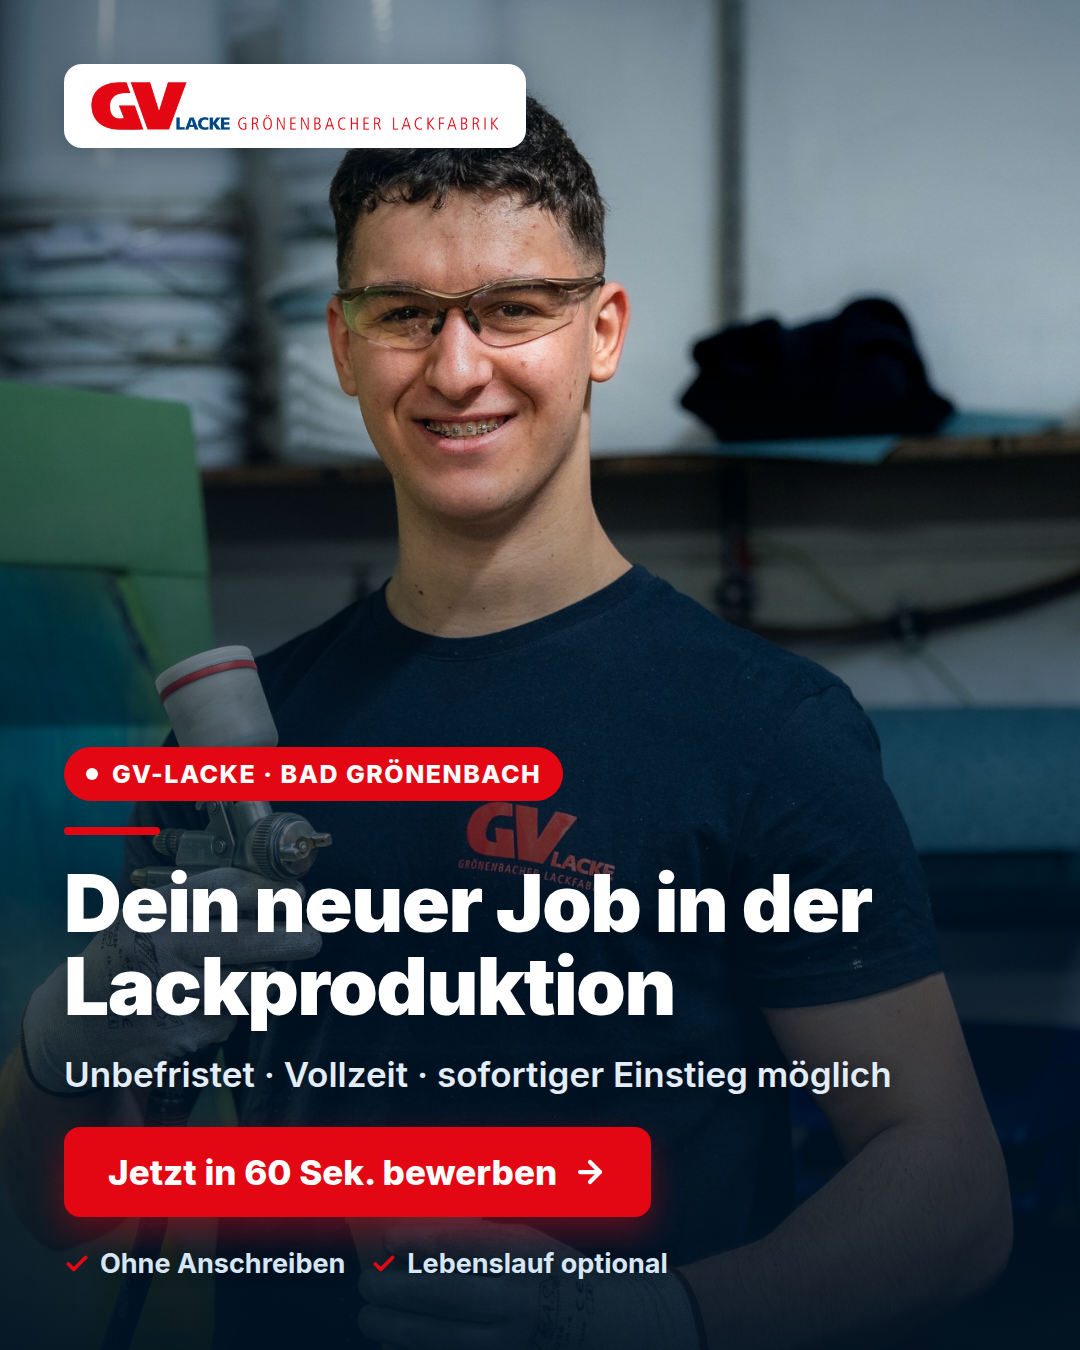
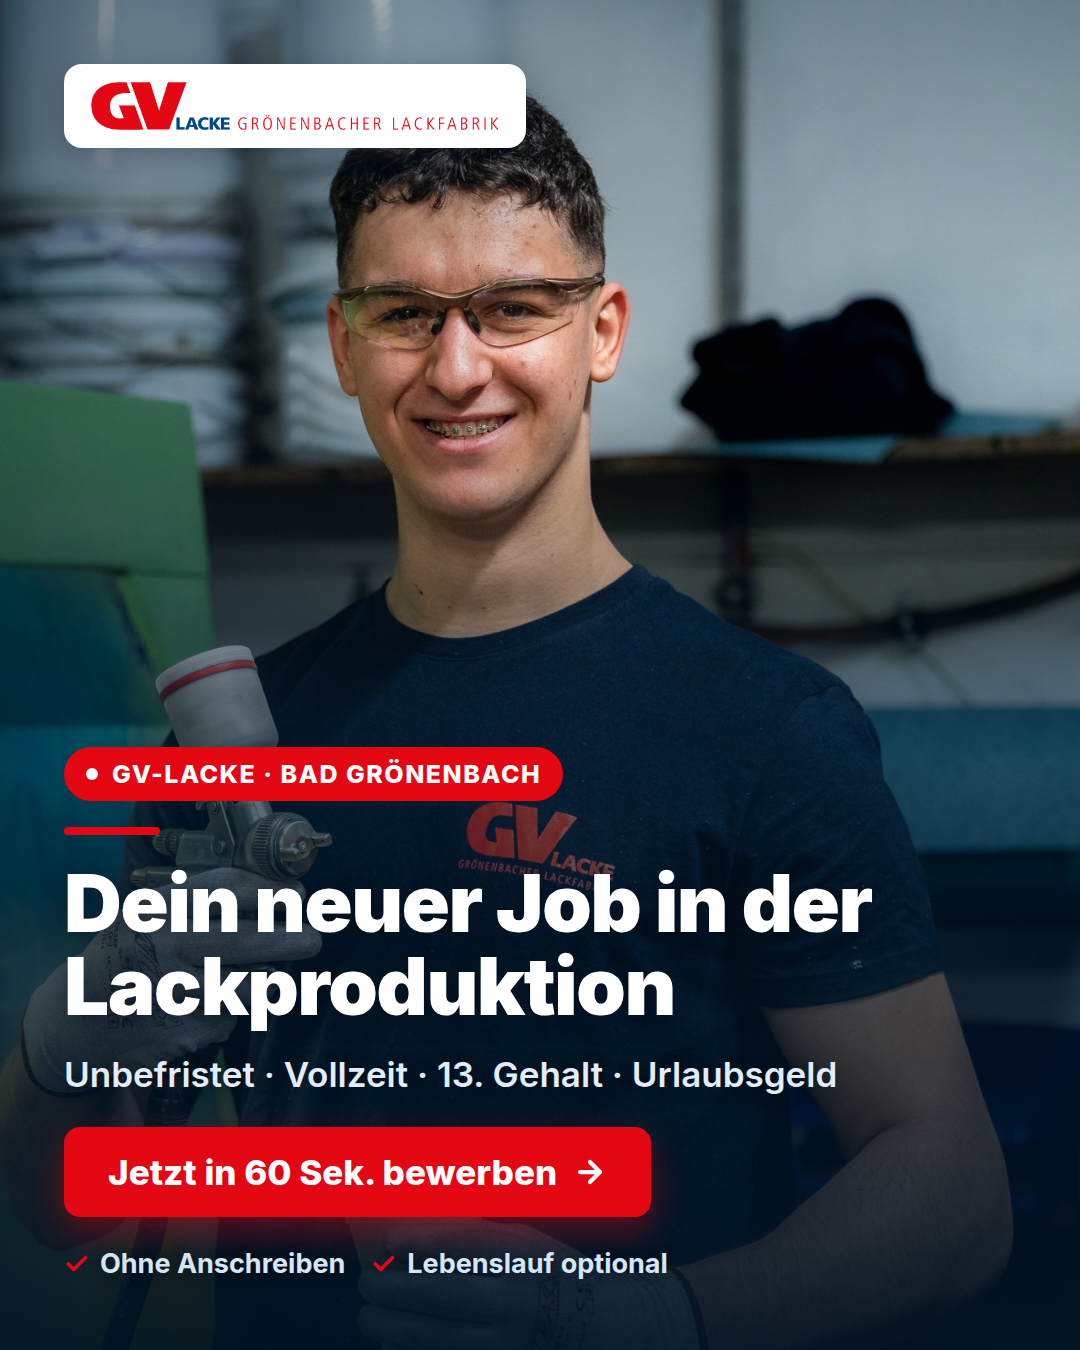
Benefits aufnehmen: echte Zusatzleistungen auf Seite & in Creatives
- Benefits-Sektion mit den von GV-Lacke gelieferten Leistungen (13. Gehalt,
  1.200 € Urlaubsgeld, 50-€-Gutschein/Monat, Fahrtkostenzuschuss,
  Jahresprämie, Jubiläumsbonus, betriebl. Pflegeversicherung, Team/Einarbeitung)
- Neues Creative-Konzept 04 "Benefits" (4:5 + 9:16) mit Vorteils-Checkliste
- Top-Benefits in Sub-/Reassure-Zeilen der übrigen Creatives ergänzt

Claude-Session: https://claude.ai/code/session_01Q4EAuYrsqog5BJEPYDqsgw

Changed region(s): [[0.3972, 0.7778, 0.825, 0.8089]]

diff --git a/index.html b/index.html
@@ -453,15 +453,18 @@ footer{padding:52px 0 36px;background:var(--blue-900);color:#cfe0f2}
 <section id="benefits">
   <div class="shell">
     <span class="kicker">Warum GV-Lacke</span>
-    <h2 class="sec-title">Ein eingespieltes Team, das sein Handwerk versteht.</h2>
-    <p class="sec-lead">Als Grönenbacher Lackfabrik produzieren wir seit Jahren hochwertige Lacke &amp; Beschichtungen im Allgäu. Bei uns zählen saubere Arbeit, ein fairer Umgang und Kolleginnen und Kollegen, die zusammenhalten.</p>
+    <h2 class="sec-title">Ein sicherer Job – mit Extras, die sich lohnen.</h2>
+    <p class="sec-lead">Als Grönenbacher Lackfabrik produzieren wir seit Jahren hochwertige Lacke &amp; Beschichtungen im Allgäu – mit einem Team, das zusammenhält. Neben fairer Bezahlung erwarten dich echte Zusatzleistungen:</p>
     <div class="benefit-grid">
-      <div class="benefit reveal"><div class="benefit__ic"><svg viewBox="0 0 24 24" fill="none" stroke-width="1.8" stroke-linecap="round" stroke-linejoin="round"><path d="M12 22s8-4 8-10V5l-8-3-8 3v7c0 6 8 10 8 10"/><path d="m9 12 2 2 4-4"/></svg></div><b>Sicherer Arbeitsplatz</b><p>Unbefristete Festanstellung in Vollzeit – bei uns weißt du, woran du bist.</p></div>
-      <div class="benefit reveal"><div class="benefit__ic"><svg viewBox="0 0 24 24" fill="none" stroke-width="1.8" stroke-linecap="round" stroke-linejoin="round"><rect x="2" y="5" width="20" height="14" rx="2"/><circle cx="12" cy="12" r="3"/><path d="M6 12h.01M18 12h.01"/></svg></div><b>Faire, pünktliche Bezahlung</b><p>Leistungsgerechter Lohn, der jeden Monat zuverlässig auf deinem Konto ist.</p></div>
-      <div class="benefit reveal"><div class="benefit__ic"><svg viewBox="0 0 24 24" fill="none" stroke-width="1.8" stroke-linecap="round" stroke-linejoin="round"><path d="M16 21v-2a4 4 0 0 0-4-4H6a4 4 0 0 0-4 4v2"/><circle cx="9" cy="7" r="4"/><path d="M22 21v-2a4 4 0 0 0-3-3.87"/><path d="M16 3.13a4 4 0 0 1 0 7.75"/></svg></div><b>Familiäres Team</b><p>Flache Hierarchien, kurze Wege und ein respektvoller Umgang – kein Konzern-Theater.</p></div>
-      <div class="benefit reveal"><div class="benefit__ic"><svg viewBox="0 0 24 24" fill="none" stroke-width="1.8" stroke-linecap="round" stroke-linejoin="round"><path d="m3 17 6-6 4 4 8-8"/><path d="M17 7h4v4"/></svg></div><b>Gründliche Einarbeitung</b><p>Auch als Quereinsteiger:in wirst du Schritt für Schritt an alle Aufgaben herangeführt.</p></div>
-      <div class="benefit reveal"><div class="benefit__ic"><svg viewBox="0 0 24 24" fill="none" stroke-width="1.8" stroke-linecap="round" stroke-linejoin="round"><path d="M20 7h-3V4a2 2 0 0 0-2-2H9a2 2 0 0 0-2 2v3H4a2 2 0 0 0-2 2v9a2 2 0 0 0 2 2h16a2 2 0 0 0 2-2V9a2 2 0 0 0-2-2z"/><path d="M9 7V4h6v3"/></svg></div><b>Arbeitskleidung gestellt</b><p>Berufskleidung und Ausrüstung bekommst du von uns – du kommst einfach vorbei.</p></div>
-      <div class="benefit reveal"><div class="benefit__ic"><svg viewBox="0 0 24 24" fill="none" stroke-width="1.8" stroke-linecap="round" stroke-linejoin="round"><path d="M20 10c0 6-8 12-8 12s-8-6-8-12a8 8 0 0 1 16 0z"/><circle cx="12" cy="10" r="3"/></svg></div><b>Gut erreichbar</b><p>Standort Bad Grönenbach – zentral im Allgäu, mit Parkplatz direkt am Betrieb.</p></div>
+      <div class="benefit reveal"><div class="benefit__ic"><svg viewBox="0 0 24 24" fill="none" stroke-width="1.8" stroke-linecap="round" stroke-linejoin="round"><path d="M12 22s8-4 8-10V5l-8-3-8 3v7c0 6 8 10 8 10"/><path d="m9 12 2 2 4-4"/></svg></div><b>Unbefristete Festanstellung</b><p>Sicherer Arbeitsplatz in Vollzeit – bei uns weißt du, woran du bist.</p></div>
+      <div class="benefit reveal"><div class="benefit__ic"><svg viewBox="0 0 24 24" fill="none" stroke-width="1.8" stroke-linecap="round" stroke-linejoin="round"><rect x="3" y="8" width="18" height="4" rx="1"/><path d="M12 8v13"/><path d="M19 12v7a2 2 0 0 1-2 2H7a2 2 0 0 1-2-2v-7"/><path d="M7.5 8a2.5 2.5 0 0 1 0-5C11 3 12 8 12 8"/><path d="M16.5 8a2.5 2.5 0 0 0 0-5C13 3 12 8 12 8"/></svg></div><b>13. Monatsgehalt</b><p>Ein volles 13. Gehalt als Weihnachtsgeld – jedes Jahr obendrauf.</p></div>
+      <div class="benefit reveal"><div class="benefit__ic"><svg viewBox="0 0 24 24" fill="none" stroke-width="1.8" stroke-linecap="round" stroke-linejoin="round"><circle cx="12" cy="12" r="4"/><path d="M12 2v2M12 20v2M4.9 4.9l1.4 1.4M17.7 17.7l1.4 1.4M2 12h2M20 12h2M4.9 19.1l1.4-1.4M17.7 6.3l1.4-1.4"/></svg></div><b>Urlaubsgeld: 1.200 €</b><p>1.200 € Urlaubsgeld im Jahr – für eine richtig erholsame Auszeit.</p></div>
+      <div class="benefit reveal"><div class="benefit__ic"><svg viewBox="0 0 24 24" fill="none" stroke-width="1.8" stroke-linecap="round" stroke-linejoin="round"><line x1="3" x2="15" y1="22" y2="22"/><line x1="4" x2="14" y1="9" y2="9"/><path d="M14 22V4a2 2 0 0 0-2-2H6a2 2 0 0 0-2 2v18"/><path d="M14 13h2a2 2 0 0 1 2 2v2a2 2 0 0 0 2 2 2 2 0 0 0 2-2V9.83a2 2 0 0 0-.59-1.42L18 5"/></svg></div><b>50-€-Gutschein pro Monat</b><p>Monatlicher Gutschein, z. B. fürs Tanken – steuerfrei obendrauf.</p></div>
+      <div class="benefit reveal"><div class="benefit__ic"><svg viewBox="0 0 24 24" fill="none" stroke-width="1.8" stroke-linecap="round" stroke-linejoin="round"><path d="M19 17h2c.6 0 1-.4 1-1v-3c0-.9-.7-1.7-1.5-1.9C18.7 10.6 16 10 16 10s-1.3-1.4-2.2-2.3c-.5-.4-1.1-.7-1.8-.7H5c-.6 0-1.1.4-1.4.9l-1.4 2.9A3.7 3.7 0 0 0 2 12v4c0 .6.4 1 1 1h2"/><circle cx="7" cy="17" r="2"/><path d="M9 17h6"/><circle cx="17" cy="17" r="2"/></svg></div><b>Fahrtkostenzuschuss</b><p>Wir beteiligen uns an deinen Fahrtkosten für den Weg zur Arbeit.</p></div>
+      <div class="benefit reveal"><div class="benefit__ic"><svg viewBox="0 0 24 24" fill="none" stroke-width="1.8" stroke-linecap="round" stroke-linejoin="round"><path d="m3 17 6-6 4 4 8-8"/><path d="M17 7h4v4"/></svg></div><b>Zusätzliche Jahresprämie</b><p>Extra-Prämie – je nach Betriebszugehörigkeit &amp; Betriebsergebnis.</p></div>
+      <div class="benefit reveal"><div class="benefit__ic"><svg viewBox="0 0 24 24" fill="none" stroke-width="1.8" stroke-linecap="round" stroke-linejoin="round"><circle cx="12" cy="8" r="6"/><path d="M15.477 12.89 17 22l-5-3-5 3 1.523-9.11"/></svg></div><b>Jubiläumsbonus</b><p>Wir belohnen deine Treue: extra Bonus für langjährige Zugehörigkeit.</p></div>
+      <div class="benefit reveal"><div class="benefit__ic"><svg viewBox="0 0 24 24" fill="none" stroke-width="1.8" stroke-linecap="round" stroke-linejoin="round"><path d="M19 14c1.49-1.46 3-3.21 3-5.5A5.5 5.5 0 0 0 16.5 3c-1.76 0-3 .5-4.5 2-1.5-1.5-2.74-2-4.5-2A5.5 5.5 0 0 0 2 8.5c0 2.3 1.5 4.05 3 5.5l7 7Z"/><path d="M3.22 12H9.5l.5-1 2 4.5 2-7 1.5 3.5h5.27"/></svg></div><b>Betriebliche Pflegeversicherung</b><p>Zusätzliche Absicherung über eine betriebliche Pflegeversicherung.</p></div>
+      <div class="benefit reveal"><div class="benefit__ic"><svg viewBox="0 0 24 24" fill="none" stroke-width="1.8" stroke-linecap="round" stroke-linejoin="round"><path d="M16 21v-2a4 4 0 0 0-4-4H6a4 4 0 0 0-4 4v2"/><circle cx="9" cy="7" r="4"/><path d="M22 21v-2a4 4 0 0 0-3-3.87"/><path d="M16 3.13a4 4 0 0 1 0 7.75"/></svg></div><b>Familiäres Team &amp; Einarbeitung</b><p>Kurze Wege, echtes Miteinander und gründliche Einarbeitung – auch für Quereinsteiger.</p></div>
     </div>
   </div>
 </section>

diff --git a/README.md b/README.md
@@ -62,7 +62,9 @@ Danach live unter https://saviold.github.io/gv-lacke/
 ## Noch zu bestätigen / anzupassen (Platzhalter)
 - **Kontakt-E-Mail** (`bewerbung@gv-lacke.de`) sowie **Impressum-/Datenschutz-Links** – bitte durch die
   echten Angaben von GV-Lacke ersetzen. Aktuell auf die Unternehmensseite verlinkt.
-- Ggf. konkrete Benefits (z. B. Urlaubstage, Sonderzahlungen) ergänzen – aktuell bewusst allgemeine „Klassiker“.
+- Benefits: die von GV-Lacke gelieferten Leistungen sind eingebaut (13. Gehalt, 1.200 € Urlaubsgeld,
+  50-€-Gutschein, Fahrtkostenzuschuss, Jahresprämie, Jubiläumsbonus, betriebl. Pflegeversicherung).
+  Bitte kurz bestätigen: Ist der 50-€-Gutschein **monatlich** (aktuell so kommuniziert)?
 - Weiteres/finales Bildmaterial für Hero und Sektionen kann jederzeit in `bilder/` ergänzt werden.
 
 ---
